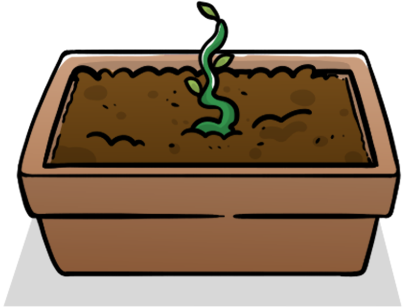
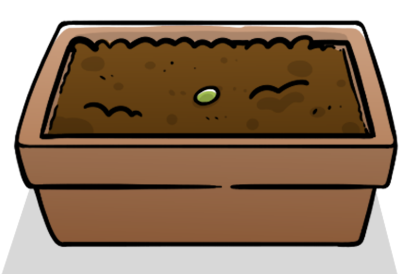
Fix plants

diff --git a/src/frontend/components/Farm.js b/src/frontend/components/Farm.js
@@ -11,7 +11,7 @@ import AboutUs from './ActionAboutUs'
 
 const fromWei = (num) => ethers.utils.formatEther(num)
 const toWei = (num) => ethers.utils.parseEther(num.toString())
-const lastPlantId = 4
+const lastPlantId = 5
 
 const Farm = ({ beanToUse, currentTimestamp, web3Handler, planting, account, nft, supplyLeft, balance, closeMenu, toggleMenu, menu, changeQuantity, mintButton, setQuantity, quantity }) => {
     const [countdown, setCountdown] = useState(0)
@@ -30,7 +30,7 @@ const Farm = ({ beanToUse, currentTimestamp, web3Handler, planting, account, nft
         // console.log("timeLeft: " + timeleft)
         let cooldownDone = timeleft < 0
 
-        if(cooldownDone && balance == 0 && plant < 4) {
+        if(cooldownDone && balance == 0 && plant < lastPlantId) {
             topText=("YOU DON'T HAVE A BEAN.")
         }
         else if(plantObject[0] == 0) {
@@ -38,23 +38,27 @@ const Farm = ({ beanToUse, currentTimestamp, web3Handler, planting, account, nft
         }
         else if(plantObject[0] == 1) {
             topText=("BEAN PLANTED. NEXT STAGE IN ") + getTimeLeftString(timeleft)
-            if (cooldownDone)
+            if (cooldownDone) {
                 topText=("IT'S SPROUTING. CLICK THE POT TO CONTINUE GROWING")
+            }
         }
         else if(plantObject[0] == 2) {
-            topText=("BEAN PLANTED. NEXT STAGE IN ") + getTimeLeftString(timeleft)
-            if (cooldownDone)
+            topText=("NEXT STAGE IN ") + getTimeLeftString(timeleft)
+            if (cooldownDone) {
                 topText=("NICE SAPLING. CLICK THE POT TO CONTINUE GROWING")
+            }
         }
         else if(plantObject[0] == 3) {
-            topText=("BEAN PLANTED. NEXT STAGE IN ") + getTimeLeftString(timeleft)
-            if (cooldownDone)
+            topText=("NEXT STAGE IN ") + getTimeLeftString(timeleft)
+            if (cooldownDone) {
                 topText=("LOOKING GOOD. CLICK THE BEANSTALK TO CONTINUE GROWING")
+            }
         }
         else if(plantObject[0] == 4) {
-            topText=("BEAN PLANTED. NEXT STAGE IN ") + getTimeLeftString(timeleft)
-            if (cooldownDone)
+            topText=("NEXT STAGE IN ") + getTimeLeftString(timeleft)
+            if (cooldownDone) {
                 topText=("SUCH A MAJESTIC BEANSTALK! CLICK THE BEANSTALK TO CLIMB!")
+            }
         }
 
         return topText
@@ -108,11 +112,47 @@ const Farm = ({ beanToUse, currentTimestamp, web3Handler, planting, account, nft
         console.log("planting.address: " + planting.address)
         const plantObjectTemp = await planting.getPlant(account)
         console.log("plantObjectTemp: " + plantObjectTemp)
-        setPlant(plantObjectTemp.phase)
         setPlantObject(plantObjectTemp)
-        setPhaseDuration(await planting.phaseDuration(plantObjectTemp.phase))
+        const phaseDurationTemp = await planting.phaseDuration(plantObjectTemp.phase)
+        setPhaseDuration(phaseDurationTemp)
+        setPlantImage(plantObjectTemp, phaseDurationTemp)
 
         listenToEvents()
+    }
+
+    const setPlantImage = (plantObjectTemp, phaseDuration) => {
+        
+        let timeleft = getTimeLeft(currentTimestamp, parseInt(plantObjectTemp[1]), parseInt(phaseDuration))
+        // console.log("timeLeft: " + timeleft)
+        let cooldownDone = timeleft < 0
+
+        if(plantObjectTemp.phase == 0) {
+            setPlant(0)
+        }
+        else if(plantObjectTemp.phase == 1) {
+            setPlant(1)
+            if (cooldownDone) {
+                setPlant(2)
+            }
+        }
+        else if(plantObjectTemp.phase == 2) {
+            setPlant(2)
+            if (cooldownDone) {
+                setPlant(3)
+            }
+        }
+        else if(plantObjectTemp.phase == 3) {
+            setPlant(3)
+            if (cooldownDone) {
+                setPlant(4)
+            }
+        }
+        else if(plantObjectTemp.phase == 4) {
+            setPlant(4)
+            if (cooldownDone) {
+                setPlant(5)
+            }
+        }
     }
 
     const buttonLinkOnClick = async (elementId) => {
@@ -130,7 +170,7 @@ const Farm = ({ beanToUse, currentTimestamp, web3Handler, planting, account, nft
 
         let beanToUseTemp = beanToUse
 
-        if(balance == 0 && plant < 4) {
+        if(balance == 0 && plant < lastPlantId) {
             console.log("YOU DON'T HAVE A BEAN.")
             return
         }
@@ -220,7 +260,7 @@ const Farm = ({ beanToUse, currentTimestamp, web3Handler, planting, account, nft
                 </div>
 
                 <div className="plantDiv">
-                    {plant != 4 ? (
+                    {plant != lastPlantId ? (
                         <Image src={`/plant_${plant}.png`} className={"plant plant_" + plant} onClick={plantButton} />
                     ) : (
                         <></>

diff --git a/src/frontend/components/App.css b/src/frontend/components/App.css
@@ -95,6 +95,8 @@ a:link, a:visited, a:hover, a:active {
   width: 40rem;
   height: 9rem;
   z-index: 1;
+  padding-left: 8vh;
+  padding-right: 8vh;
 }
 
 .longMobileButton {
@@ -136,11 +138,11 @@ a:link, a:visited, a:hover, a:active {
   cursor: pointer;
 }
 
-.plant_0, .plant_1, .plant_2, .plant_3 {
+.plant_0, .plant_1, .plant_2, .plant_3, .plant_4 {
   width: 20%;
 }
 
-.plant_4 {
+.plant_5 {
   width: 100%;
 }
 
@@ -261,11 +263,11 @@ a:link, a:visited, a:hover, a:active {
   }
   
 
-  .plant_0, .plant_1, .plant_2, .plant_3 {
+  .plant_0, .plant_1, .plant_2, .plant_3, .plant_4 {
     width: 70%;
   }
 
-  .plant_4 {
+  .plant_5 {
     position: absolute;
     bottom: 0;
     left: -9999px;

diff --git a/src/frontend/components/App.js b/src/frontend/components/App.js
@@ -119,7 +119,7 @@ function App() {
       console.log("mintFinished: " + quantityRef.current)
       setSupplyLeft(supplyLeftRef.current - quantityRef.current)
       setBalance(balanceRef.current + quantityRef.current)
-      setBeanToUse(amountMintedRef.current)
+      // setBeanToUse(amountMintedRef.current)
   }
 
   const updateCurrentTimestampFromBlockchain = async () => {

diff --git a/hardhat.config.js b/hardhat.config.js
@@ -12,7 +12,7 @@ module.exports = {
      },
      goerli: {
        url: process.env.REACT_APP_API_URL_GOERLI_INFURA,
-       accounts: ['0x' + process.env.REACT_APP_PRIVATE_KEY_GOERLI_KENNY],
+       accounts: ['0x' + process.env.REACT_APP_PRIVATE_KEY_GOERLI],
        allowUnlimitedContractSize: true,
        gas: 2100000,
        gasPrice: 8000000000,
